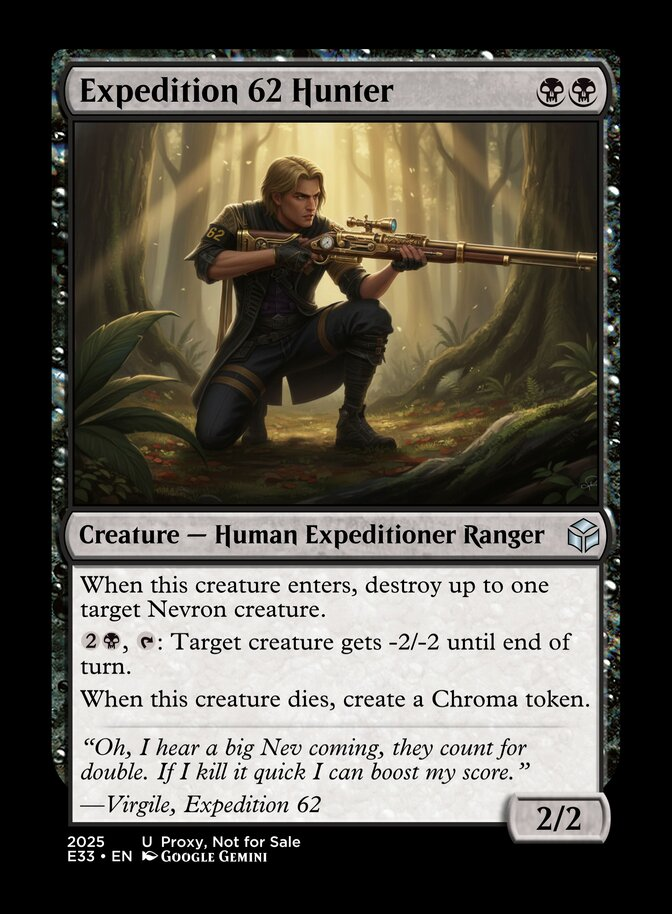
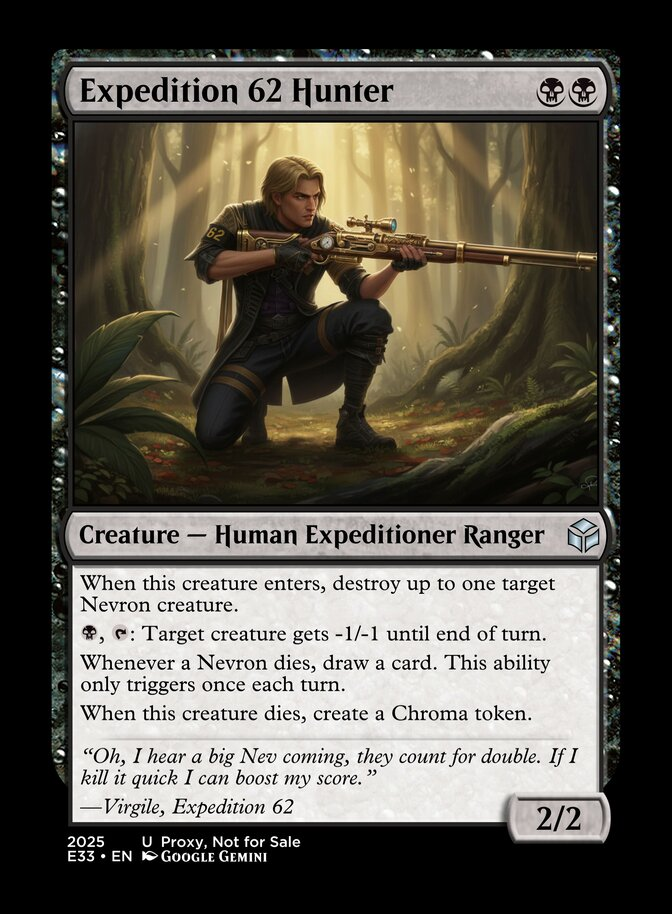
Expedition 62 Hunter: Rebalance
Fixes #153

Changed region(s): [[0.125, 0.6127, 0.875, 0.919]]

diff --git a/design/BLACK.md b/design/BLACK.md
@@ -1,6 +1,6 @@
 # Cards
 
-> Last generated: 26/6/2026 1:36:10 pm
+> Last generated: 23/7/2026 11:48:27 am
 
 ## Axon Offering
 
@@ -216,7 +216,8 @@ When this creature dies, create a Chroma token.
 BB
 Creature - Human Expeditioner Ranger
 When this creature enters, destroy up to one target Nevron creature.
-{2}{B}, {T}: Target creature gets -2/-2 until end of turn.
+{B}, {T}: Target creature gets -1/-1 until end of turn.
+Whenever a Nevron dies, draw a card. This ability only triggers once each turn.
 When this creature dies, create a Chroma token.
 ---
 "Oh, I hear a big Nev coming, they count for double. If I kill it quick I can boost my score."
@@ -233,6 +234,12 @@ When this creature dies, create a Chroma token.
  - Mechanically translated to a creature with creature killing abilities and standard Expeditioner death bonus.
  - 21/01/2026: Added Ranger sub-type and fix ETB targeting.
  - 3/02/2026: Reduce cost from 1BB to BB
+ - 23/07/2026: Reduce -2/-2 ability to -1/-1 and change activation cost to [B, T]. Also add a once-per-turn Nevron death trigger to draw a card to lean in more on the "racking up the score" theme the flavor text implies.
+
+
+### Rulings
+
+ - Nevron death trigger will trigger on any Nevron permanent dying, not just creatures.
 
 ## Familial Bonding
 
